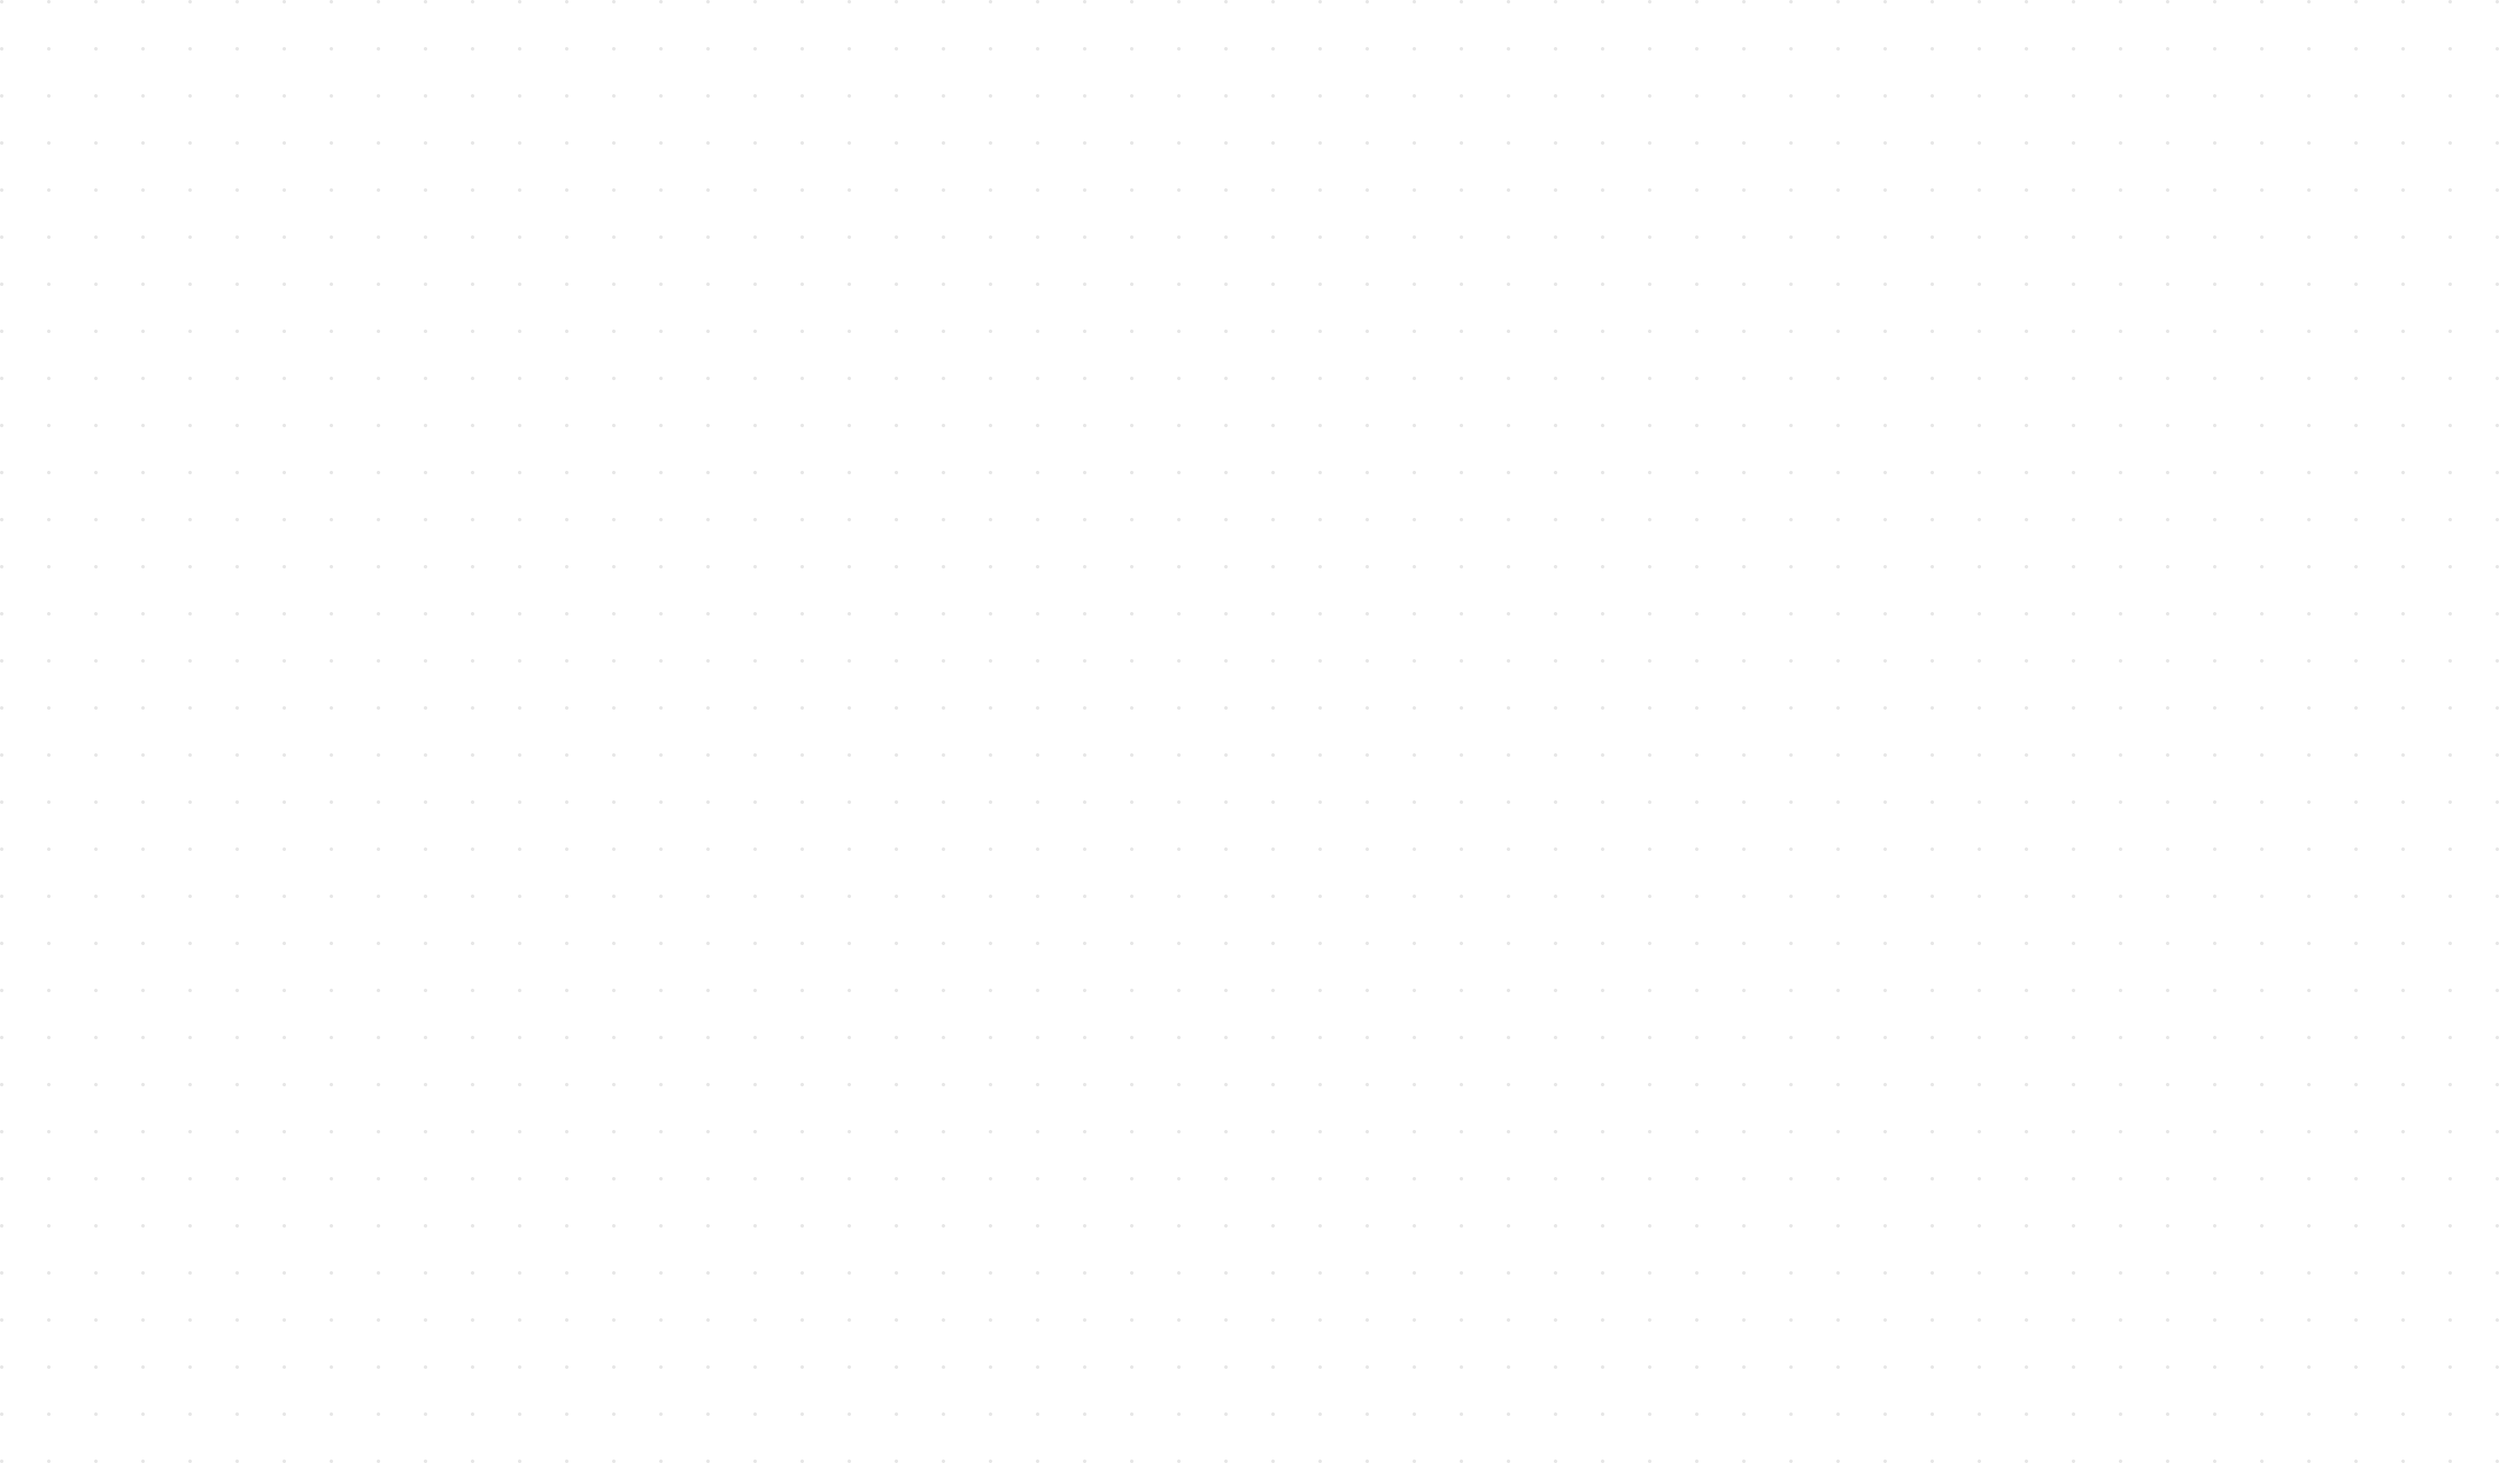
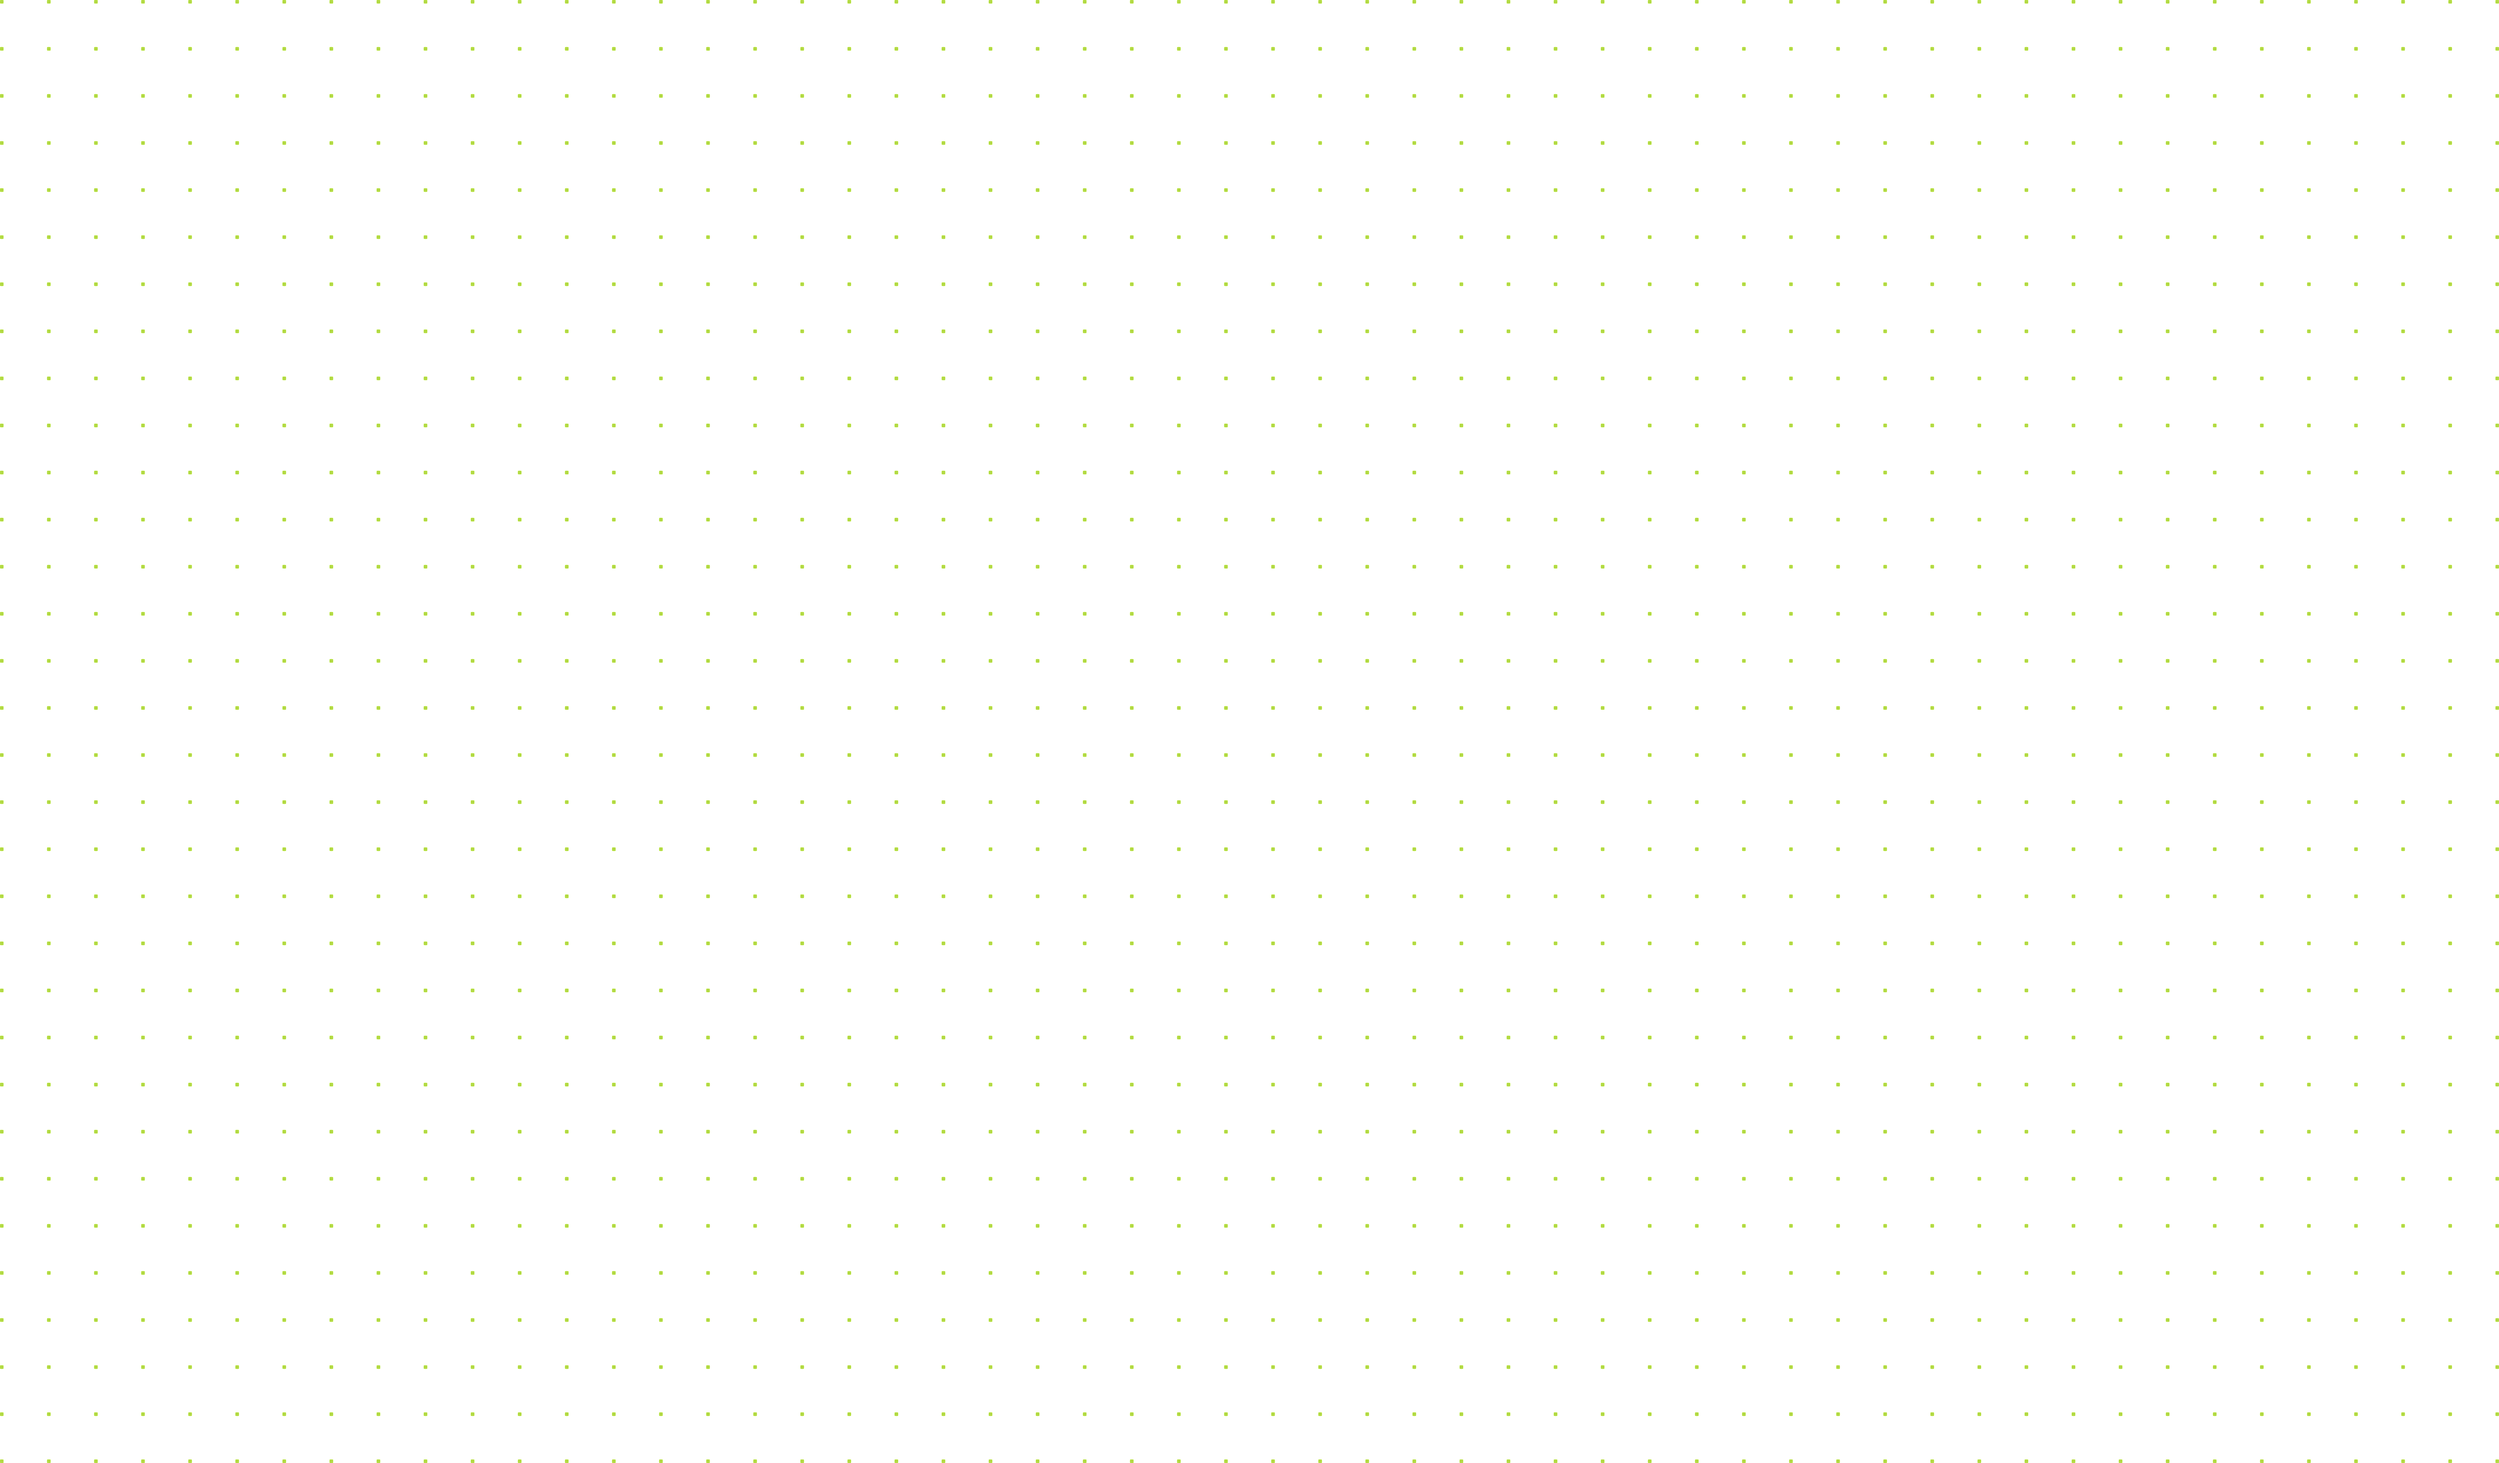
- Change the color of the theme Include the dark/light mode support and remove the hydration warning fron the HTML tag

diff --git a/src/app/globals.css b/src/app/globals.css
@@ -4,47 +4,47 @@
 
 @layer base {
   :root {
-    --background: 246 100% 100%;
-    --foreground: 246 5% 10%;
-    --card: 246 50% 100%;
-    --card-foreground: 246 5% 15%;
-    --popover: 246 100% 100%;
-    --popover-foreground: 246 100% 10%;
-    --primary: 246 52.3% 56.5%;
+    --background: 76 100% 95%;
+    --foreground: 76 5% 10%;
+    --card: 76 50% 90%;
+    --card-foreground: 76 5% 15%;
+    --popover: 76 100% 95%;
+    --popover-foreground: 76 100% 10%;
+    --primary: 76 53% 41%;
     --primary-foreground: 0 0% 100%;
-    --secondary: 246 30% 90%;
+    --secondary: 76 30% 70%;
     --secondary-foreground: 0 0% 0%;
-    --muted: 208 30% 95%;
-    --muted-foreground: 246 5% 40%;
-    --accent: 208 30% 90%;
-    --accent-foreground: 246 5% 15%;
-    --destructive: 0 100% 50%;
-    --destructive-foreground: 246 5% 100%;
-    --border: 246 30% 82%;
-    --input: 246 30% 50%;
-    --ring: 246 52.3% 56.5%;
+    --muted: 38 30% 85%;
+    --muted-foreground: 76 5% 35%;
+    --accent: 38 30% 80%;
+    --accent-foreground: 76 5% 15%;
+    --destructive: 0 100% 30%;
+    --destructive-foreground: 76 5% 90%;
+    --border: 76 30% 50%;
+    --input: 76 30% 26%;
+    --ring: 76 53% 41%;
     --radius: 0.5rem;
   }
   .dark {
-    --background: 246 50% 10%;
-    --foreground: 246 5% 100%;
-    --card: 246 50% 10%;
-    --card-foreground: 246 5% 100%;
-    --popover: 246 50% 5%;
-    --popover-foreground: 246 5% 100%;
-    --primary: 246 52.3% 56.5%;
+    --background: 76 50% 10%;
+    --foreground: 76 5% 90%;
+    --card: 76 50% 10%;
+    --card-foreground: 76 5% 90%;
+    --popover: 76 50% 5%;
+    --popover-foreground: 76 5% 90%;
+    --primary: 76 53% 41%;
     --primary-foreground: 0 0% 100%;
-    --secondary: 246 30% 20%;
+    --secondary: 76 30% 20%;
     --secondary-foreground: 0 0% 100%;
-    --muted: 208 30% 25%;
-    --muted-foreground: 246 5% 65%;
-    --accent: 208 30% 25%;
-    --accent-foreground: 246 5% 95%;
-    --destructive: 0 100% 50%;
-    --destructive-foreground: 246 5% 100%;
-    --border: 246 30% 50%;
-    --input: 246 30% 50%;
-    --ring: 246 52.3% 56.5%;
+    --muted: 38 30% 25%;
+    --muted-foreground: 76 5% 60%;
+    --accent: 38 30% 25%;
+    --accent-foreground: 76 5% 90%;
+    --destructive: 0 100% 30%;
+    --destructive-foreground: 76 5% 90%;
+    --border: 76 30% 26%;
+    --input: 76 30% 26%;
+    --ring: 76 53% 41%;
     --radius: 0.5rem;
   }
 }

diff --git a/src/app/layout.tsx b/src/app/layout.tsx
@@ -25,16 +25,11 @@ export default function RootLayout({
   children: React.ReactNode;
 }>) {
   return (
-    <html lang="en">
+    <html lang="en" suppressHydrationWarning>
       <body
         className={`${geistSans.variable} ${geistMono.variable} antialiased`}
       >
-        <ThemeProvider
-          attribute="class"
-          defaultTheme="system"
-          enableSystem
-          disableTransitionOnChange
-        >
+        <ThemeProvider attribute="class" defaultTheme="system" enableSystem>
           {children}
         </ThemeProvider>
       </body>

diff --git a/src/middleware.ts b/src/middleware.ts
@@ -1,5 +1,5 @@
 export { auth as middleware } from "@/auth";
 export const config = {
   //this regex avoids running the middleware on paths such as the favicon or static images
-  matcher: ["/((?!api|_next/static|_next/image|favicon.ico).*)"],
+  matcher: ["/((?!api|_next/static|_next/image|favicon.ico|.*\\.png).*)"],
 };
